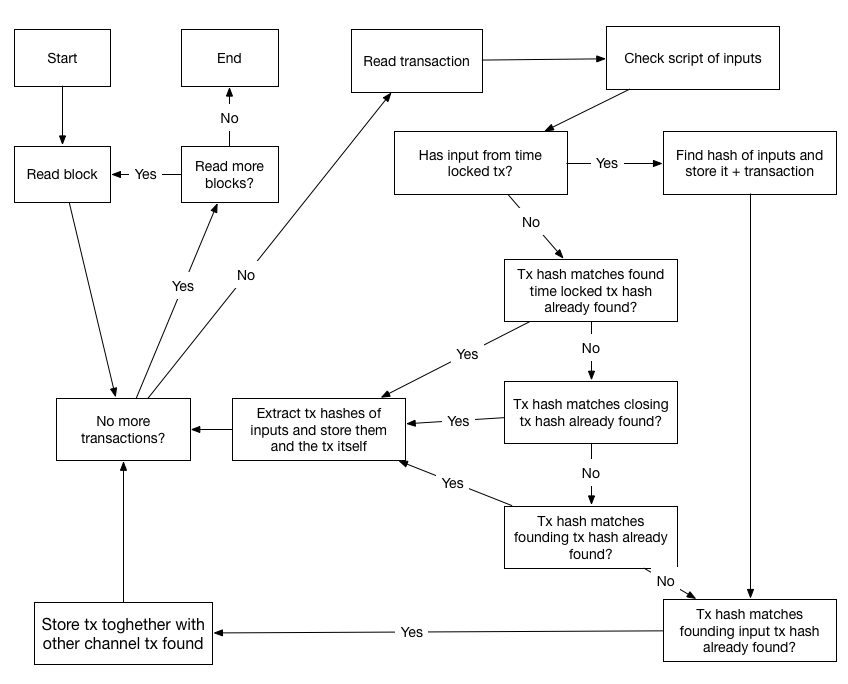
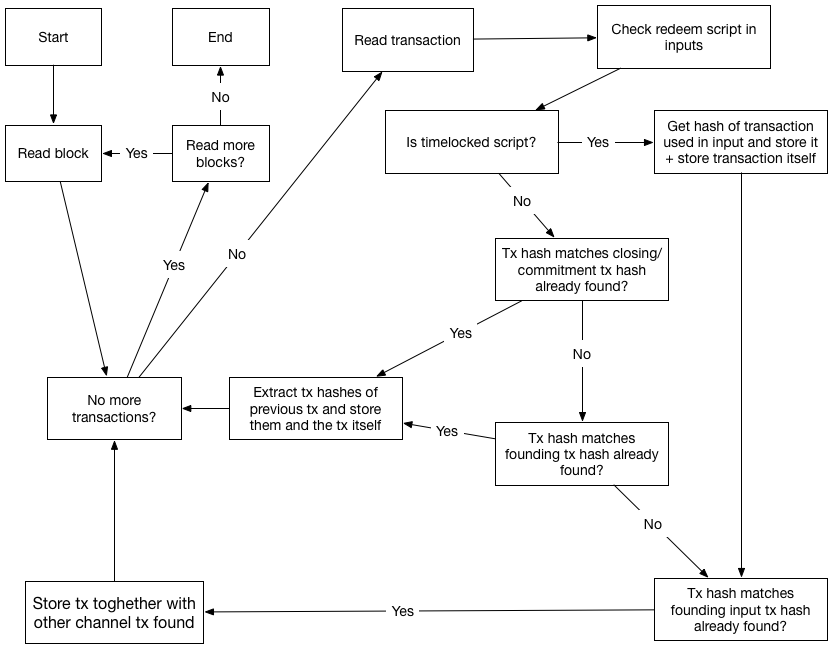
Start of identifying scripts in detail

diff --git a/inc/methodology.tex b/inc/methodology.tex
@@ -18,7 +18,7 @@ To locate LN relevant transaction on the blockchain we identified attributes the
 \\
 
 In addition to 2of2 multisig redeem scripts there is other script types used in certain LN on-chain transactions. One of these scripts is the one used when a channel is unilaterally closed-i.e., one of the parties in the channel publishes a commitment transaction. As explained in section \cref{subsec:pcln} the one who publishes a commitment transaction has their output of the commitment timelocked; this is to enable punishment for the publisher if the commitment in question was a revoked one with outdated balance favoring the publisher more than the most recent commitment. As stated in the LN specification \cite{bolt3} this unilaterally published commitment transaction has two outputs: one P2WPKH to the party who did not publish, and one P2WSH output with a redeem script which can be spent by waiting for the timelock it contains or with a revocation key. 
-This redeem script is fairly unique and to our knowledge there is no other instances such scripts are used. However, people are free to create such scripts without it having anything to do with the LN, but the specific use case of such script makes this unlikely. Because the redeem script is located in the transaction spending a P2WSH output, we need for this case locate it in the transaction spending the timelocket output from the closing/commitment transaction. We will refer to this as the timelocked transaction which is shown on the right in \cref{fig:ln_tx_graph}. Since transactions have references to previous transaction hashes \todo{check if transaction hashes is explaned in bckground} we can by finding the transaction spending a timelocked output get the hash of the timelocked tx. When we have the timelocked tx it will contain the hash of the input tx, and this will again allow us to find the tx hash of the closing tx which will in turn give us the founding tx. Doing this will result in us finding all on-chain transactions related to a unilatirally closed lightning channels.
+This redeem script is fairly unique and to our knowledge there is no other instances such scripts are used. However, people are free to create such scripts without it having anything to do with the LN, but the specific use case of such script makes this unlikely. Because the redeem script is located in the transaction spending a P2WSH output, we need for this case locate it in the transaction spending the timelocket output from the closing/commitment transaction. We will refer to this as the timelocked transaction which is shown on the right in \cref{fig:ln_tx_graph}. We explained in \cref{subsec:segwit} that each transaction has a id which is a hash of the transaction. This is how the transaction refer to each other; the inputs of transactions contain the transaction hash and output index of the transaction they spend. By looking for transactions with the redeem script for timelocked outputs we can identify the timelocked transactions, and because it will contain a reference to the transactions is spends we now also can locate the commitment/closing tx. Looking at the input to the commitment/closing transaction we can in turn find the founding tx. Doing this again with the founding transaction will give use the transactions used for input to the founding transaction. We are interested in these transactions which are used for input in the founding transaction for linking purposes which will be explained in \cref{sec:linking}. Using this method of first identifying the timelocked tx and then following the references to previous transactions found in the inputs will allow us to create subgraphs with transactions related to a LN channel as shown in \cref{fig:ln_tx_graph}.
 
 \begin{figure}[h]
     \centering
@@ -28,46 +28,56 @@ This redeem script is fairly unique and to our knowledge there is no other insta
 \end{figure}
 
 
-This method identify the transactions related to a lightning channel in reverse order meaning the transaction spending the timelocked output will be indentified first and the founding transaction last. 
-This means we must parse the blockchain in reverse order starting from the lastest block working our way down the the start; the structure of the blockchain with blocks only contain the hash of the previous block is another reason for this.
-For this project we have developed software parsing the blockchain and identified relevant transaction as outlined above.
-At a high level the software finds the top block from the chaindata stored in the database and uses it as a starting point.
-Then it traverses the transactions in the block and checks if they are relevant for our project, if that is the case they are stored for later use. The hash of the preceding block is used to get it from the database and same process is repeated.
-The algorithm used is based on identifying scripts from the timelocked output of a unilaterally closed channel, and then using the transaction hash of the previous transaction to get the rest of the relevant channels as shown in fig. \todo{add ref fig}
+This method for locating subgraphs with LN related transactions is done in reverse when comparing to their creation time-i.e., we will find the timelocked transaction first and the tranactions used for input to the founding transaction last.
+Because the tranasctions is a DAG as stated before, they will be located chronologically in the blockchain-e.g., the closing transactions cannot be found before the founding transaction as the closing uses the output of the founding.
+We explained in \cref{subsec:blockchain} the blockchain confirms transactions and makes them valid by adding them to the chain; this means we must parse the blockchain in reverse order starting from the lastest block working our way down the the start. Doing this means we will encounter the relevant transactions in the order we want-i.e., for a subgraph we first encounter the timelocked tx and lastly the founding input transactions. We must also do this because the structure of the blockchain with blocks only referencing the previous one, only allowing us to traverse backwards in the chain. 
+\\
+
+In this project we have developed software parsing the blockchain and identified relevant transactions using the method outlined above.
+We the btcd \cite{btcd_roasbeef} Bitcoin implementation for fetching and storing the blockchain data, and we also use libraries from it to read the data.
+At a high level the software finds the top block from the blockchain data stored on disk and uses it as a starting point.
+Then it traverses the transactions in the block and checks if they are relevant for our project, if that is the case they are stored for later use. After the transactions in a block is parsed the hash of the preceding block is used to get it from disk, and the same process is repeated.
+Again, we create the LN channel transaction subgraph shown in \cref{fig:ln_tx_graph} by first looking for inputs containing the timelocked redeem script and then use the hash of the transaction that input spends to find the commitment/closing transaction.
+The algorithm in its entirety is shown in \cref{fig:algo} where we the entire process of reading blocks and finding relevant transactions.
+For each transaction we first check if it is a timelocked transaction, if it is we store as part of a subgraph for that channel and store the hash of the preceeding transaction (in this case the closing/commitment). As we parse tranasctions and identify tiemlocked transactions we have list of hashes known to be closing/commitment transaction, so if a transaction is not a timelocked one we check if the hash of the transaction matches any in the list. If it does we store it and finds the hash of the preceding (in this case the founding) and store it in a similar list; the same is done with founding input transactions. These hash lists are used to find all other transactions besides the timelocked in the subgraph. So for each transaction try to indeitfy it by checking if it is timelocked or the hash can be found in any of these lists. One thing to note is that a timelocked transaction can also be used as a input to a founding transaction, so we must also check found timelocked transaction against the list of founding input transactions; this will result in the same transaction being present in two subgraphs, with different role in each.
 
 \begin{figure}[h]
     \centering
     \includegraphics[width=14cm]{figures/algorithm.png}
     \caption{Algorithm of parsing and locating relevant LN transactions on the blockchain}
-    \label{fig:htlc_bc}
+    \label{fig:algo}
 \end{figure}
 
-% ln transaction formats on chain
 
-When a transaction is inspected we first check if it has a input containing a redeem script for a timelocked transaction.
-The script is defined in the lightning rfc \todo{add ref to rfc} and has the format:
+The redeem script used to identify the timelocked transactions is shown below: \cite{bolt3}
 \\
 
 \noindent OP\_IF \\
-    # Penalty transaction \\
-    <revocationpubkey> \\
+\indent   # Penalty transaction \\
+\indent    <revocationpubkey> \\
 OP\_ELSE\\
-    `to\_self\_delay`\\
-    OP\_CSV\\
-    OP\_DROP\\
-    <local\_delayedpubkey>\\
+\indent    `to\_self\_delay`\\
+\indent    OP\_CSV\\
+\indent    OP\_DROP\\
+\indent    <local\_delayedpubkey>\\
 OP\_ENDIF\\
 OP\_CHECKSIG\\
 
-The first line is the clause to stop participants from publishing old commitment transactions. The script will evaluate to true if this clause is used and the signature for the public key is given; As discussed in section \todo{ref bacground} the parties will revoke old commitment transactions by exchanging keys so the other party can spend the timelocked output with the revocation key and get all the founds in the channel. The else clause is the timelocked portion of the script; it will contain a delay and the CHECKSEQUENCEVERIFY operation defined in \todo{ref bip 112} which terminates the script if the delay has not passed. The delay is then removed from the stack with OP\_DROP such that the signature and public key are the only two items on the stack when OP\_CHECKSIG is used to very the signature.
+The first line is the clause to stop participants from publishing old commitment transactions. The script will evaluate to true if this clause is used and the signature for the public key is given; As discussed in \cref{subsec:pcln} the parties will revoke old commitment transactions by exchanging keys so the other party can spend the timelocked output with the revocation key and get all the founds in the channel. The else clause is the timelocked portion of the script; it will contain a delay and the CHECKSEQUENCEVERIFY operation defined in \cite{BIP112} which terminates the script if the delay has not passed. The delay is then removed from the stack with OP\_DROP such that the signature and public key are the only two items on the stack when OP\_CHECKSIG is used to very the signature.
+Our implementation takes the witness stack for each transaction it checks; see \cref{subsec:segwit} where we explained how the witness stack is structured for P2WSH transactions. % example of byte encoded witness stack. detail
+%check segwit mandatory.
+\\
 
-% identifying scripts in depth
+[99 33 2 126 120 157 3 221 51 166 248 112 126 125 158 170 244 190 182 208 132 33 63 68 47 200 84 246 158 249 169 162 216 193 225 103 2 177 4 178 117 33 3 123 132 176 130 116 241 4 42 10 48 64 171 85 99 123 61 247 9 119 228 167 173 206 99 118 75 52 241 193 170 236 210 104 172]
+\\
 
+Above we see the raw byte representation of the redeem script shown earlier. It contains the same operations as previously discussed as well as public keys and data. As we explained in \cref{subsec:scripts} the operations in the Bitcoin scripts is called opcodes, and the Bitcoin wiki contains a list of all of them with their encodings \cite{bitcoin_wiki_scripts}. To identify this a script of this type we use these opcodes because they will remain the same, while the public keys and delay can be variable. The first byte vector seen in the raw script above is 99 which is the opcode for the the OP\_IF operation. The next vector is 33 which indicates how many bytes to push. 33 bytes is the length of a compressed public key with prefix. Bitcoin uses elliptic curve cryptography, 
 % multisig detection
 
 % how other information gathered. output types so on.
 
 \section{Lightning network analysis}
+\label{sec:ln_analysis}
 
 % lnd introduction
 
@@ -75,7 +85,7 @@ The first line is the clause to stop participants from publishing old commitment
 
 %how ln data was gathered
 
-To gather data from the LN we used a modified version of the LND \todo{add ref} implementation, which follows the BOLT specification \todo{add ref}. It maintains a view of the network by storing a graph containing active channels. This is continuously updated as new channels are annouched and closing transactions is found on the blockchain. It requires a bitcoin backend running to interact with the bitcoin network; using it to publish on-chain transactions and monitor the blockchain. New channels are discovered by annouchements within the LN while channels closing is found by looking at the blockchain and finding transactions spending the founding transactions of previously active channels. We forked and modifed LND to create a copy of its database each time a new block notification was received from the Bitcoin software giving us a snapshot of the network on each new block.
+To gather data from the LN we used a modified version of the LND \todo{add ref} implementation, which follows the BOLT specification \todo{add ref}. It maintains a view of the network by storing a graph containing active channels. This is continuously updated as new channels are annouched and closing transactions is found on the blockchain. It requires a Bitcoin backend running to interact with the Bitcoin network; using it to publish on-chain transactions and monitor the blockchain. New channels are discovered by annouchements within the LN while channels closing is found by looking at the blockchain and finding transactions spending the founding transactions of previously active channels. We forked and modified LND to create a copy of its database each time a new block notification was received from the Bitcoin software giving us a snapshot of the network on each new block.
 \\
 
 Each snapshot we collected contained the graph describing the network in its current state, so by comparing the graphs of different snapshorts we can see how the network evolves over time. When comparing two snapshots from two points in time we can identify closed channels by checking the old snapshot for channels not found in the new one; Similarly new channels can be found by checking the new snapshot for channels not found in the old one. This allows us to build a list of closed and opened channels during the collection timeframe, as well as the those which are open throughout. 
@@ -84,7 +94,8 @@ Each snapshot we collected contained the graph describing the network in its cur
 
 % comparing to blockchain data
 
-\section{Clustering}
+\section{Linking}
+\label{sec:linking}
 
 % intro clusting, goals and related work
 

diff --git a/inc/results.tex b/inc/results.tex
@@ -27,7 +27,14 @@
 
 \begin{figure}[h]
     \centering
-    \includegraphics[width=12cm]{figures/channelGraphLNTS.png}
-    \caption{Channel relations from LN data on testnet}
+    \includegraphics[width=14cm]{figures/graphs/cg_ln_mainnet_run1.png}
+    \caption{Linked channels from LN mainnet run1}
+    \label{fig:channelGraphLNTS}
+\end{figure}
+
+\begin{figure}[h]
+    \centering
+    \includegraphics[width=14cm]{figures/graphs/cg_bc_mainnet_run1.png}
+    \caption{Linked channels from BC mainnet run1}
     \label{fig:channelGraphLNTS}
 \end{figure}
